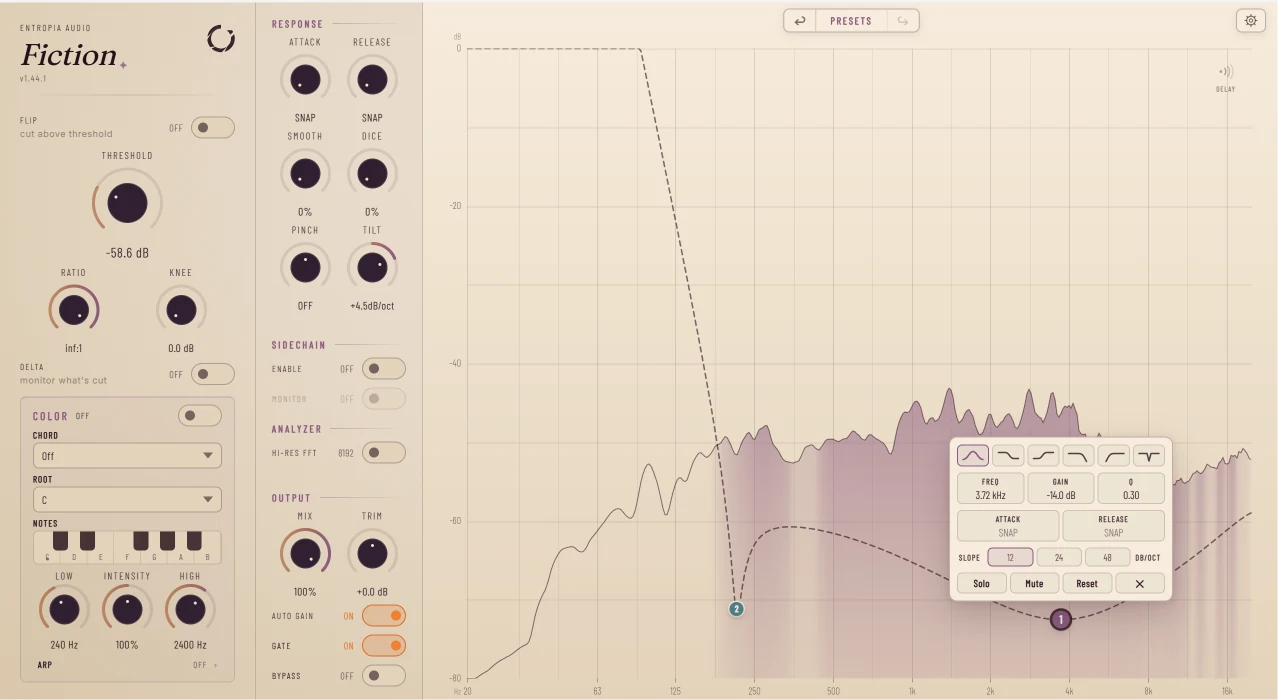
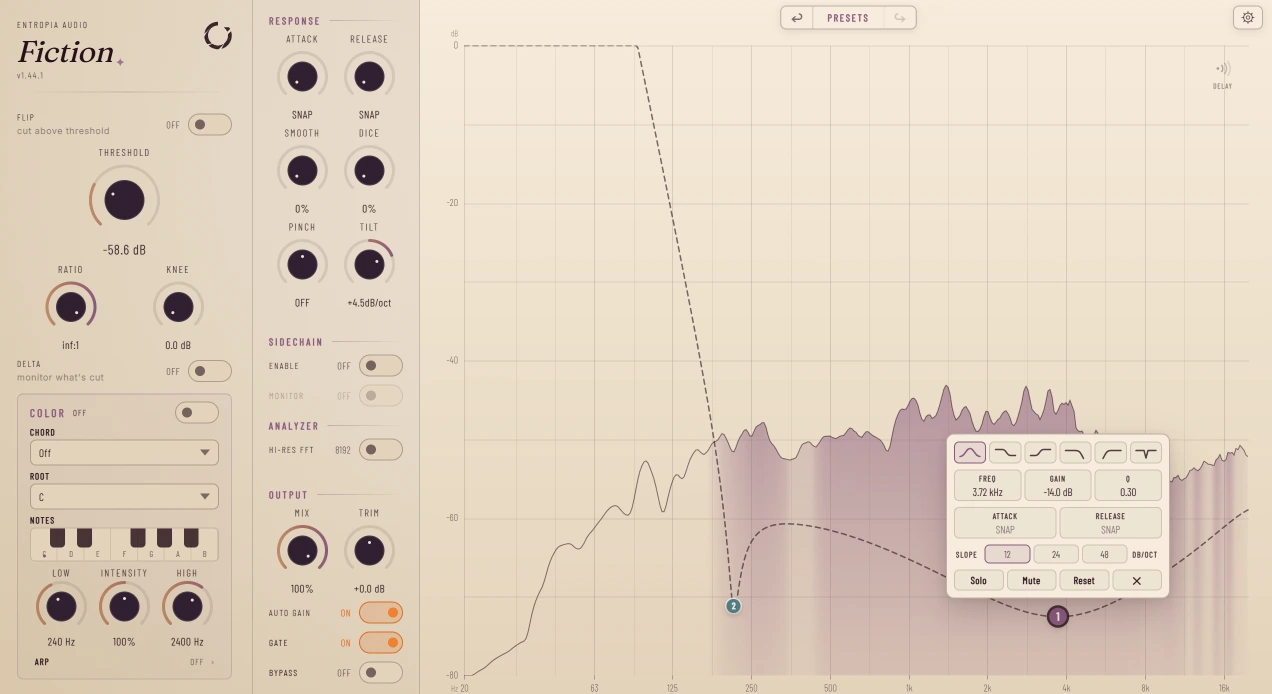
plugin shots: real pixels this time
Every export was 1x, so HiDPI and scaled displays upsampled them soft.

- chaosverb.webp is no longer a screenshot: it is the V1.1.1 webview UI
  itself, served standalone, driven to the marketing state, and captured
  at 2x (2486x1096). tools/capture-chaosverb-shot.cjs is the rig - rerun
  it whenever the plugin UI changes instead of cropping a window grab.
- fiction.webp ships as a 2x upsample (lanczos + cas) of the 1x capture;
  no higher-res Fiction export exists yet, swap one in when it does. Its
  two story shots stay 1x on purpose - their slot never renders wider
  than ~640css, where 1x already covers 2x screens - but are re-encoded
  from cleaner sources (threshold from a lossless png).
- the cards ship their recovered 1536x1024 originals; the site had been
  serving a 1280 downscale of them.
- every file is pre-cropped clean, so PluginShot''s EDGE_CROP drops to 0;
  declared sizes updated; the priority plate now requests with
  fetchpriority=high (React 18 lowercase passthrough).

diff --git a/src/components/primitives/PluginShot.tsx b/src/components/primitives/PluginShot.tsx
@@ -6,26 +6,21 @@ import { cn } from "@/lib/utils";
  * warm ink shadow. Every screenshot on the site goes through here, so the two
  * products are framed identically on every page.
  *
- * Why it crops. Both UI exports carry a dirty ring in their outermost pixels —
- * the plugin window's own rounded corner and border, flattened against a dark
- * background on export. Measured against an interior luminance of ~225:
+ * Why it can crop. Raw UI exports used to carry a dirty ring in their
+ * outermost pixels — the plugin window's own rounded corner and border,
+ * flattened against a dark background on export — and EDGE_CROP trimmed it in
+ * SOURCE pixels so the same ring vanished at 1920 and on a phone. The current
+ * exports (2026-08, the 2x set) are pre-cleaned: the ring is cropped off in
+ * the files themselves, so EDGE_CROP sits at 0 and the frame shows the file
+ * edge to edge. If a future re-export ships with a dirty ring again, either
+ * clean it at the source (preferred) or raise EDGE_CROP to cover it.
  *
- *   chaosverb.webp  edge 72, then 152 / 155 at 1-2px in, clean from 3px
- *   fiction.webp    edge 109, clean from 1px in
- *
- * Rendered straight, that ring reads as a grey smear around the artwork and
- * gets chewed up further by the frame's own radius. So the frame shows the
- * image inset by EDGE_CROP source pixels on every side: the ring is gone, the
- * artwork still reaches the frame's edge, and nothing of the UI is lost.
- *
- * The crop is expressed in SOURCE pixels, not rendered ones, so it trims the
- * same ring at 1920 and on a phone — which is why the natural size has to be
- * declared in plugins.ts. That also lets the frame reserve its exact box
- * before the image loads, so nothing jumps.
+ * Declaring the natural size in plugins.ts still matters: it lets the frame
+ * reserve its exact box before the image loads, so nothing jumps.
  */
 
-/** Source pixels trimmed from every edge. Covers both exports' rings. */
-const EDGE_CROP = 3;
+/** Source pixels trimmed from every edge. 0 — the exports are pre-cleaned. */
+const EDGE_CROP = 0;
 
 /* The hairline frame is an INSET shadow, not a border, and that is load
    bearing: a real border shrinks the img's containing block by 2px, which
@@ -105,6 +100,9 @@ export const PluginShot = ({
         src={src}
         alt={alt}
         loading={priority ? "eager" : "lazy"}
+        // React 18 has no camelCase fetchPriority prop (that's React 19);
+        // the lowercase spread passes it through as a plain DOM attribute.
+        {...(priority ? { fetchpriority: "high" } : null)}
         decoding="async"
         onLoad={onLoad}
         className={cn("block", natural ? "absolute max-w-none" : "w-full")}

diff --git a/src/data/plugins.ts b/src/data/plugins.ts
@@ -59,10 +59,9 @@ export type Plugin = {
   /** path under /public — the plugin UI, shown big on the product page. */
   screenshot: string;
   /**
-   * The screenshot's natural pixel size. PluginShot needs it to crop the
-   * export's dirty edge ring in source pixels (so the trim is identical at
-   * every viewport) and to reserve the frame's box before the image loads.
-   * If you replace a screenshot, update these numbers to match the new file.
+   * The screenshot's natural pixel size. PluginShot uses it to reserve the
+   * frame's exact box before the image loads, so nothing jumps. If you
+   * replace a screenshot, update these numbers to match the new file.
    */
   screenshotSize: { w: number; h: number };
   /** path under /public — the 3:2 art on the homepage card. */
@@ -118,7 +117,9 @@ export const plugins: Plugin[] = [
     ],
     version: "1.0.0",
     screenshot: "/screenshots/chaosverb.webp",
-    screenshotSize: { w: 1249, h: 554 },
+    // 2x export, re-rendered from the V1.1.1 webview UI itself (2026-08) —
+    // sharp on HiDPI at the plate's 1040px render width.
+    screenshotSize: { w: 2486, h: 1096 },
     cardArt: "/screenshots/chaosverb-card.webp",
     // Chaosverb's signature slate blue — the hue of its slider fills. The
     // -ink step, because the accent is set as *type* (tagline, numerals).
@@ -146,7 +147,9 @@ export const plugins: Plugin[] = [
     ],
     version: "1.42.0",
     screenshot: "/screenshots/fiction.webp",
-    screenshotSize: { w: 1306, h: 713 },
+    // 2x asset upsampled from the 1x capture (no higher-res export exists
+    // yet); replace with a true 2x export when one is available.
+    screenshotSize: { w: 2600, h: 1412 },
     cardArt: "/screenshots/fiction-card.webp",
     // Fiction's signature mulberry — the hue of its spectrum wash and node
     // badges. Same ink-grade rule as Chaosverb's blue.

diff --git a/src/pages/PluginPage.tsx b/src/pages/PluginPage.tsx
@@ -38,7 +38,7 @@ const StorySection = ({
       {/* the frame cap is the big-screen fix: uncapped, these shots grew past
           the hero plate itself (1171px wide at 2560w against a 44ch paragraph).
           1320 holds the spread's balance, keeps every story shot under the
-          plate's 1040, and stays sharp at 2x from the ~1250px exports. */}
+          plate's 1040, and stays sharp at 2x from the ~2500px export. */}
       <div className="grid gap-10 items-center max-w-spread mx-auto grid-cols-[repeat(auto-fit,minmax(300px,1fr))]">
         <Reveal
           variant="up"
